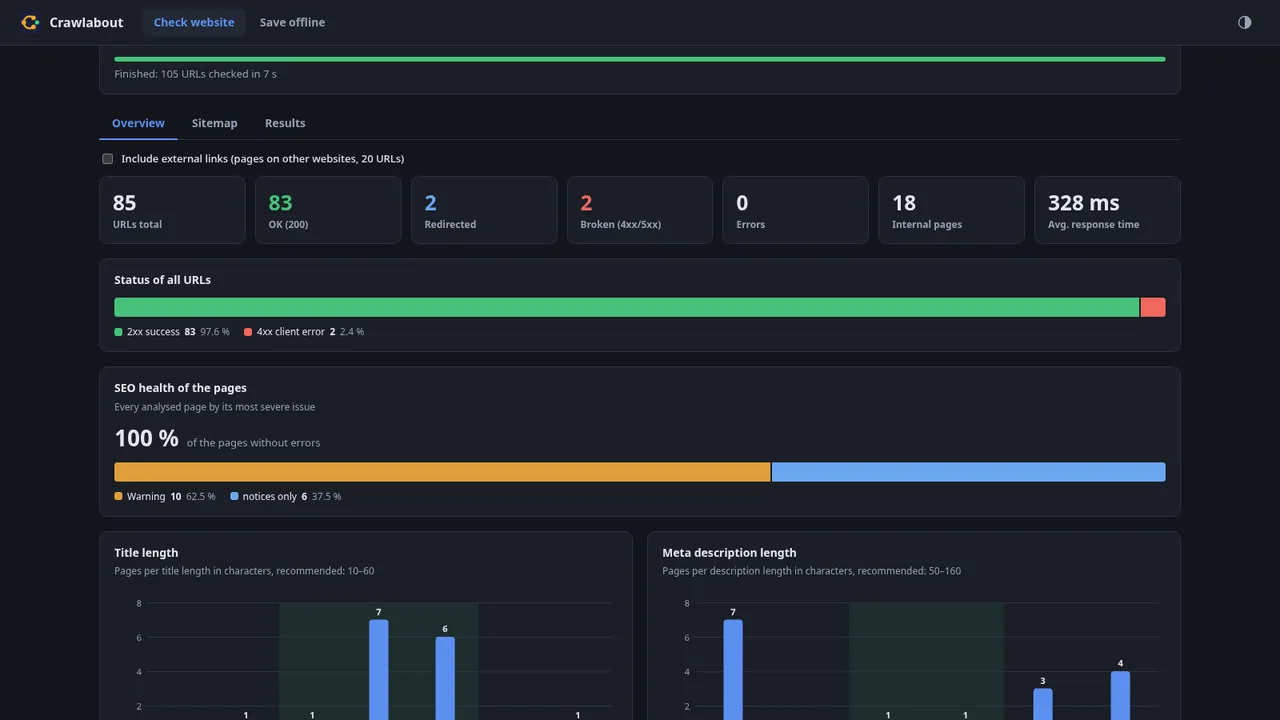
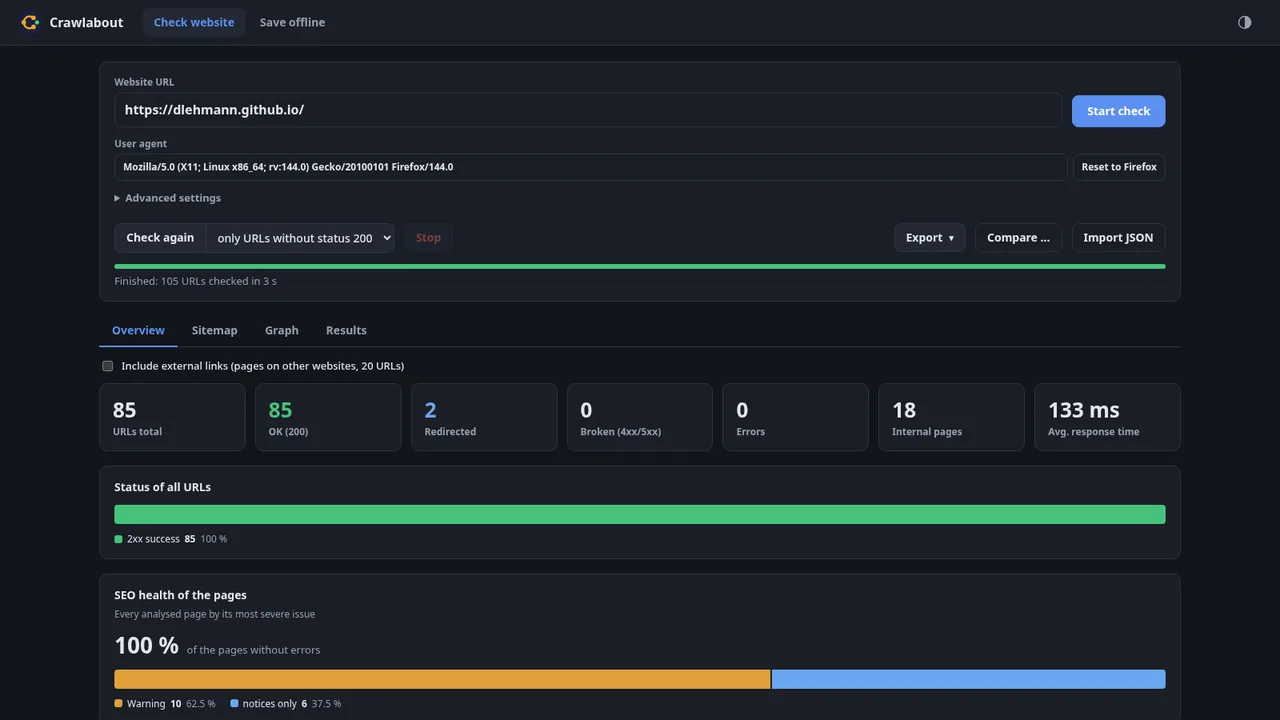
Crawlabout 2.1.0: card with the Graph tab, link graph in the description

diff --git a/README.md b/README.md
@@ -49,7 +49,7 @@
         </picture>
       </a>
       <p><b><a href="https://github.com/dlehmann/crawlabout">Crawlabout</a></b><br>
-      Website exploration tool with a local web UI – finds broken links and SEO problems, shows the external services a site loads, searches its content, creates a sitemap.xml and detailed reports and saves websites for offline use.</p>
+      Website exploration tool with a local web UI – finds broken links and SEO problems, draws the link graph of a site, shows the external services it loads, searches its content, creates a sitemap.xml and detailed reports and saves websites for offline use.</p>
     </td>
     <td width="50%" valign="top">
       <a href="https://dlehmann.github.io/tilomat/">
